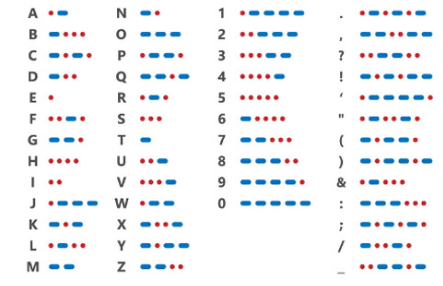
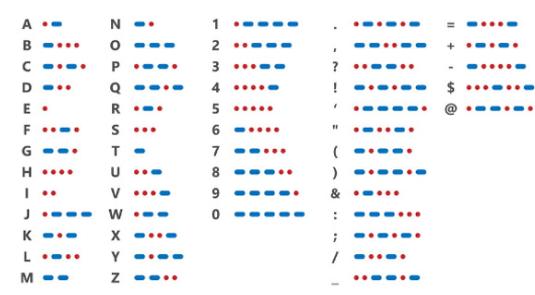
Add Crypto Solution

diff --git a/Sam_&_The_Boys/SOLVE.md b/Sam_&_The_Boys/SOLVE.md
@@ -8,3 +8,10 @@
 When we listen to the given audio file, we hear beeps of varying durations somewhere along the middle of the song.
 This is **Morse code**.
 If only the Morse code was present in the file, we could've uploaded it to some online decryption site to get the result. But since there is a song playing in the background, we'll have to figure this one out ourselves.
+
+Longer beeps mean dashes and short beeps mean dots.
+![Morse](https://github.com/TheSkullCrushr/HackOff-CTF/raw/master/Sam_%26_The_Boys/Screenshots/morse.png)
+For the full table, visit [this page](https://electropeak.com/learn/morse-code-communication-using-arduino/).
+After converting all the beeps into Morse code, and then into plaintext, we get `bips-and-beeps`.
+
+### flag : hackoff{bips-and-beeps}
